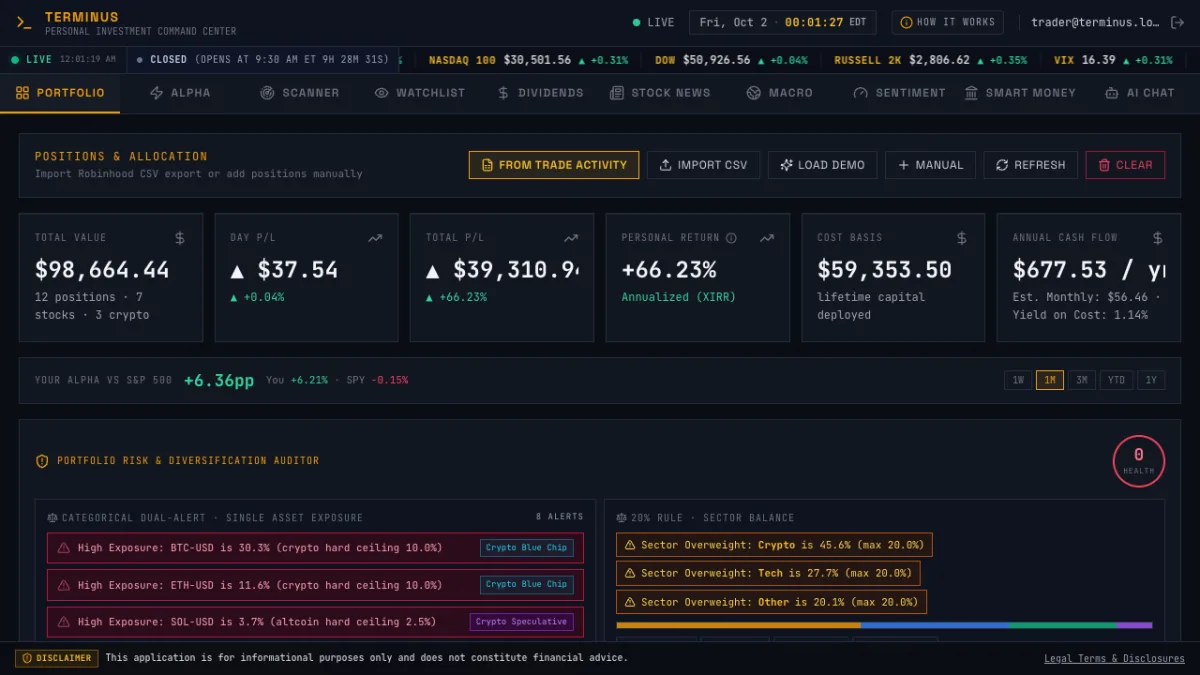
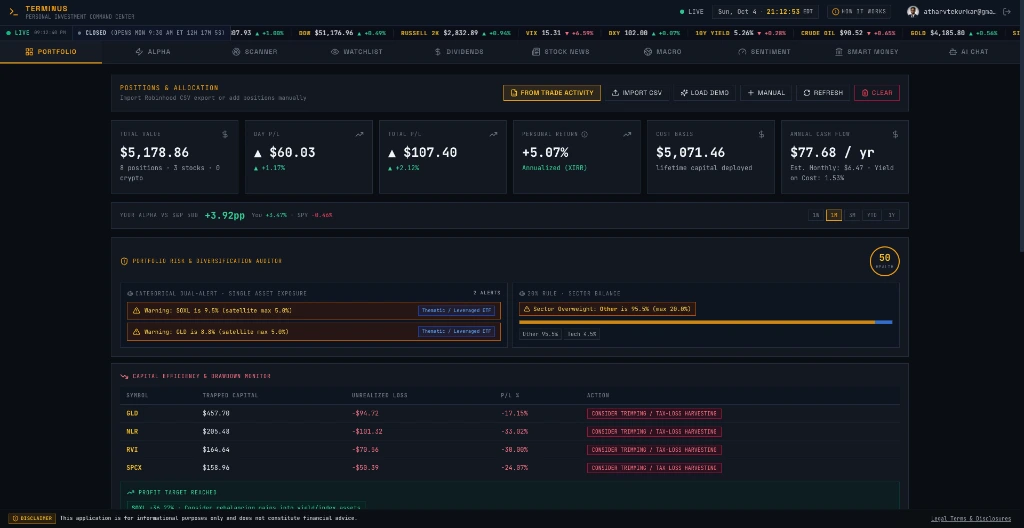
refactor: update dimensions and layout for terminus demo image and case study note

diff --git a/index.html b/index.html
@@ -102,7 +102,7 @@
 
       <article class="case-study case-featured" aria-labelledby="terminus-title">
         <div class="case-visual case-visual-dark">
-          <img src="assets/images/terminus-demo.webp" width="1200" height="675"
+          <img src="assets/images/terminus-demo.webp" width="1024" height="528"
             alt="Terminus demo interface showing portfolio measures, allocation, and risk alerts" loading="lazy">
           <span class="image-caption">Terminus interface in demo mode</span>
         </div>
@@ -120,8 +120,6 @@
           <p>Built with React and FastAPI, Terminus combines live-data integrations with portfolio analytics, risk
             tooling, and automated tests. The interface connects a question about a position to the underlying market
             context and portfolio view.</p>
-          <div class="case-note"><strong>Design constraint</strong><span>Keep many moving inputs legible enough to
-              support a useful next question.</span></div>
           <div class="case-links">
             <a href="https://portfolio-manager-by-atv.vercel.app/" target="_blank" rel="noopener noreferrer">Open live
               demo<span class="sr-only"> (opens in a new tab)</span></a>

diff --git a/styles.css b/styles.css
@@ -65,7 +65,7 @@ h2{margin-bottom:12px;font-size:clamp(44px,4.3vw,65px);line-height:1;letter-spac
 .case-featured{display:grid;grid-template-columns:minmax(0,1.2fr) minmax(0,.8fr);gap:40px;padding-block:31px 78px}
 .case-visual{align-self:start;margin:0;position:relative}
 .case-visual-dark{padding:15px;background:#17222c}
-.case-visual img{width:100%;aspect-ratio:16/9;object-fit:cover;object-position:top left}
+.case-visual img{display:block;width:100%;height:auto}
 .case-visual{overflow:hidden}
 .case-visual img{transition:transform .7s cubic-bezier(.2,.7,.2,1)}
 .case-visual:hover img{transform:scale(1.025)}
